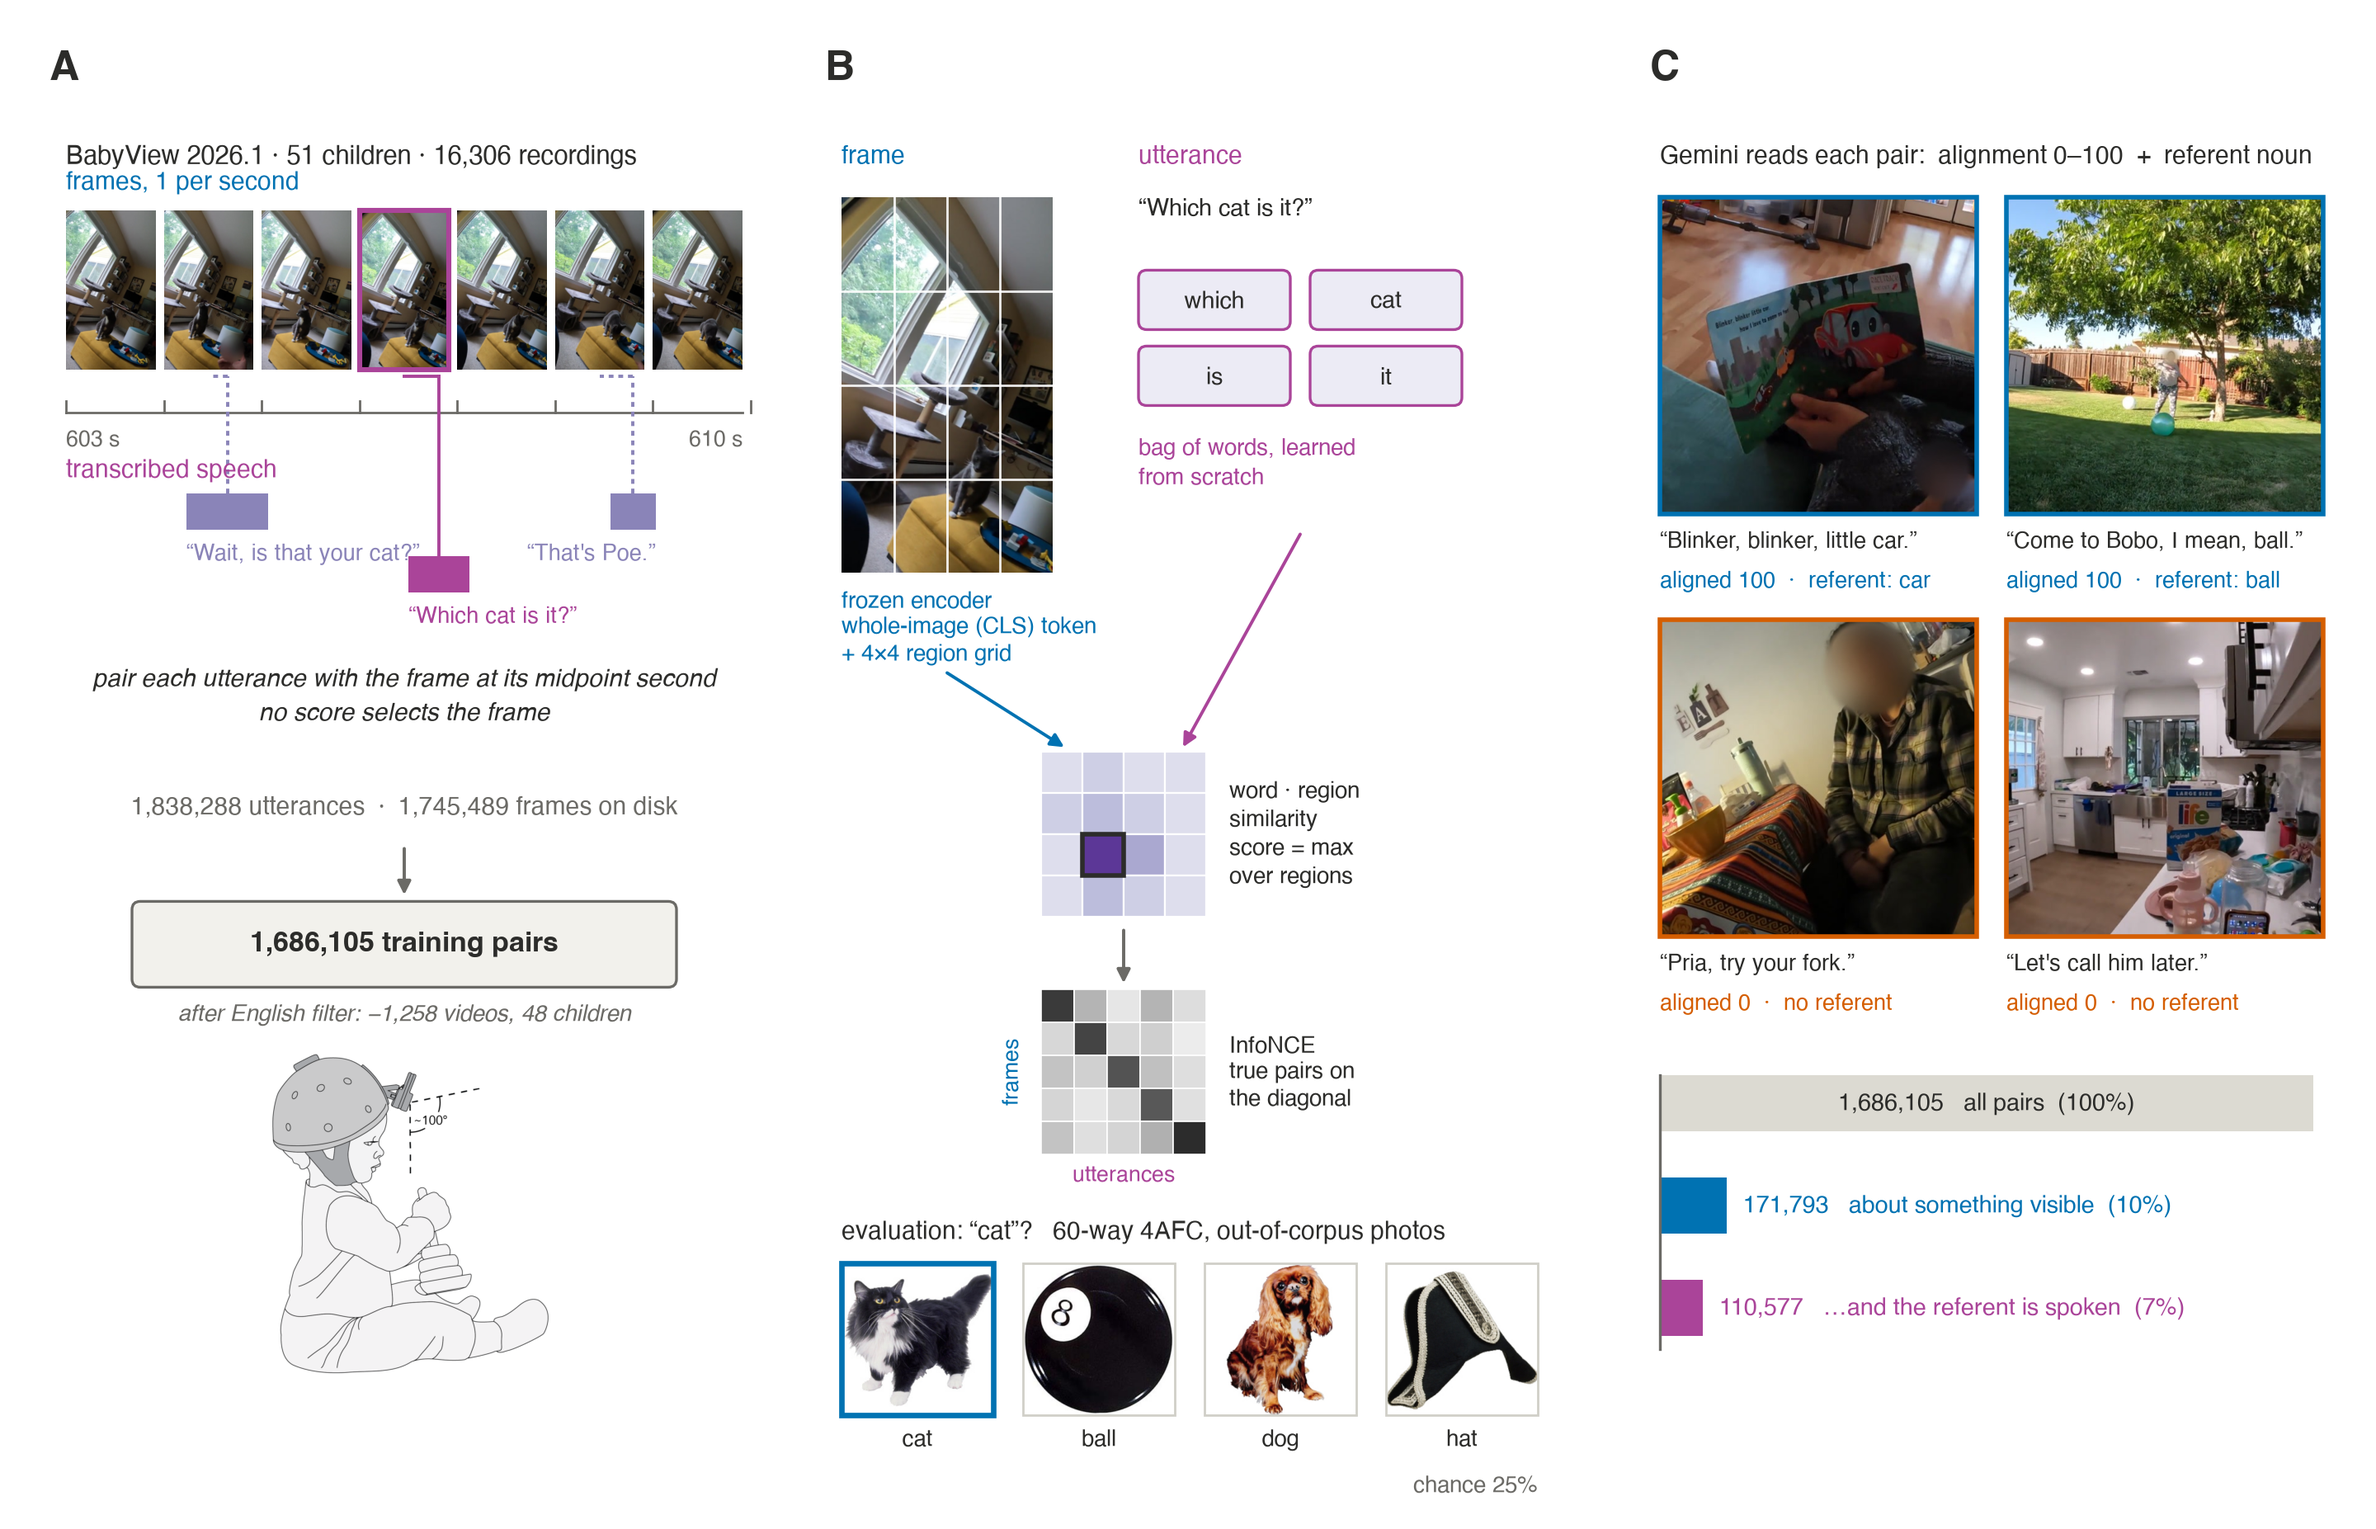
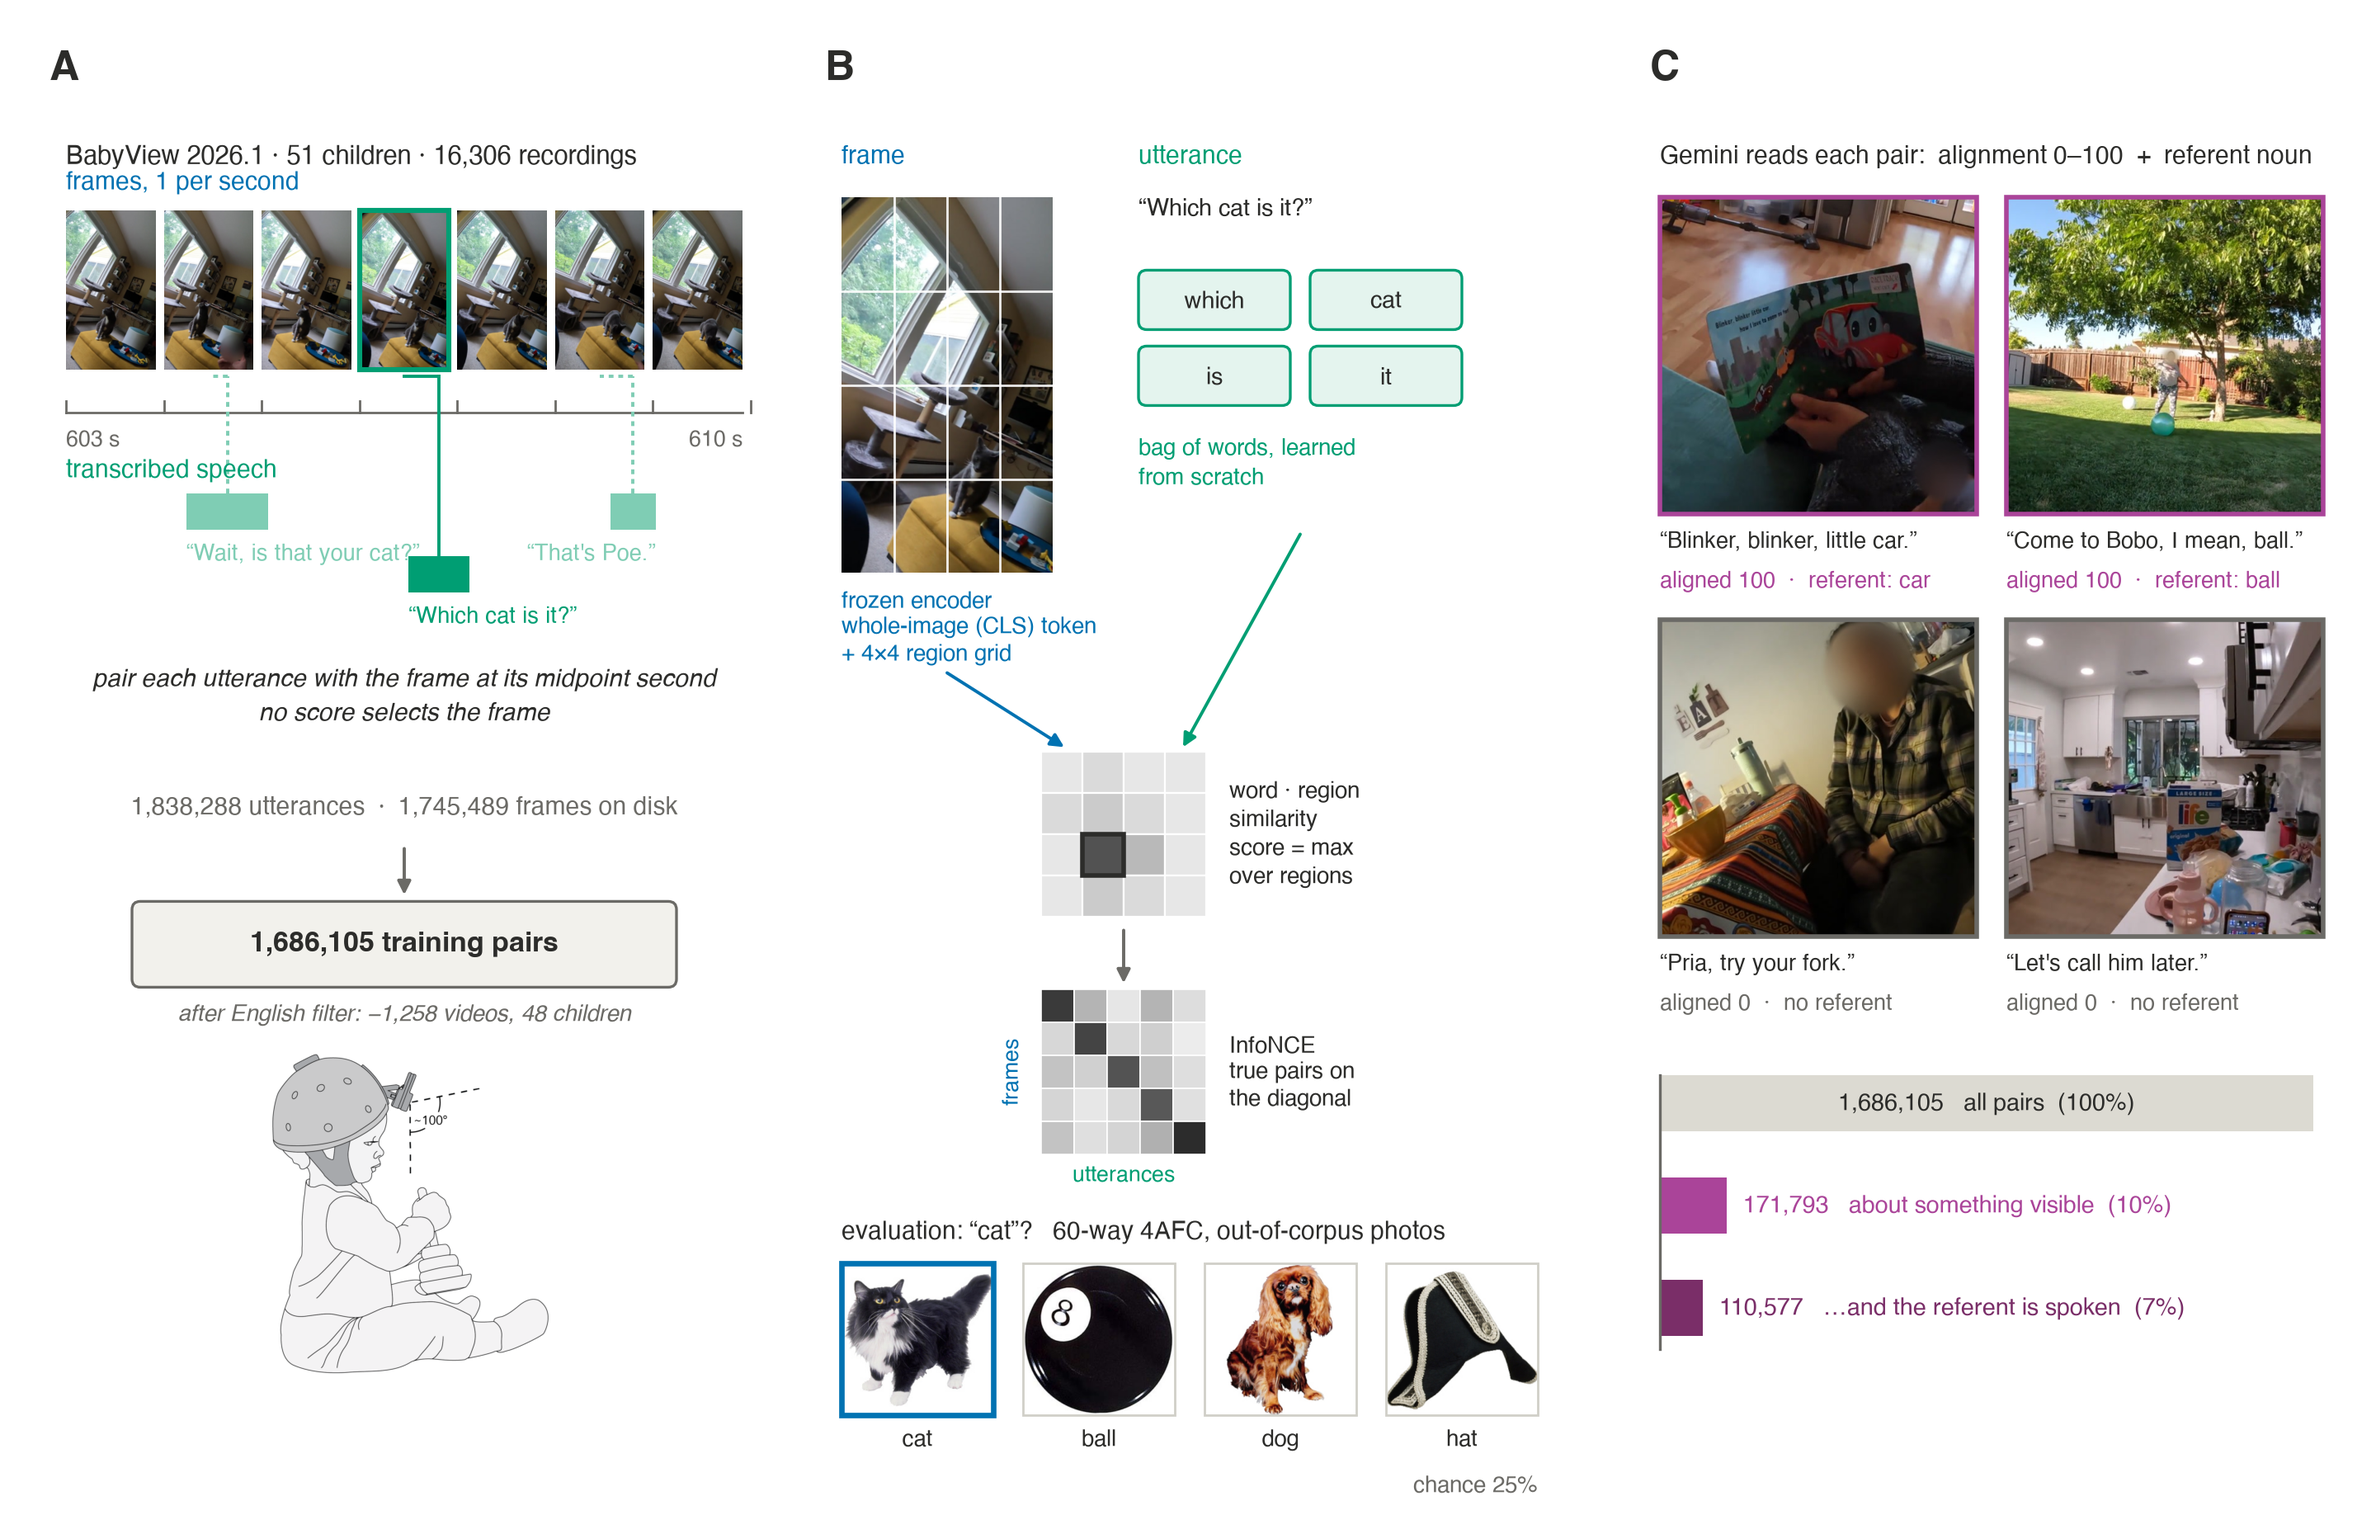
fig1: purple means referential alignment only; language stream gets its own hue
theme gains LANG (Okabe-Ito bluish green) and ORACLE2 (a darker purple for a nested
subset). In fig1 the speech stream, utterance tower, word chips and InfoNCE utterance
axis move from purple to LANG, so purple now marks alignment and nothing else:
Gemini-aligned cards are purple (unaligned grey, dropping orange from fig1 so it stays
the BabyView-encoder color), and the funnel nests ORACLE -> ORACLE2 for
aligned -> referent-spoken. This matches fig2B, where the aligned arm is purple. The
word-region similarity map goes neutral grey rather than Purples, since it is the
vision-language product and not an alignment quantity.

diff --git a/figures/fig1_pipeline.py b/figures/fig1_pipeline.py
@@ -116,11 +116,11 @@ ax.text(x0, ty - 0.5, f"{sec0} s", fontsize=4.8, color=T.SUB, va="top")
 ax.text(x0 + usable, ty - 0.5, f"{STRIP[-1] + 1} s", fontsize=4.8, color=T.SUB, va="top", ha="right")
 # utterances as bars at their real times; each pairs with the frame at its midpoint second
 uy = ty - 3.0
-ax.text(x0, uy + 0.9, "transcribed speech", fontsize=5.4, color=T.ORACLE, va="bottom")
+ax.text(x0, uy + 0.9, "transcribed speech", fontsize=5.4, color=T.LANG, va="bottom")
 for k, (t0, t1, text) in enumerate(UTTS):
     main = k == 1
     yy = uy - (k % 2) * 1.9
-    col = T.ORACLE if main else "#8a84b8"
+    col = T.LANG if main else "#7fcdb4"
     ax.add_patch(Rectangle((tx(t0), yy - 0.55), tx(t1) - tx(t0), 1.1, fc=col, ec="none", zorder=3))
     ax.text(tx(t0) if k < 2 else tx(t1), yy - 0.95, f"“{text}”", fontsize=4.9, color=col,
             va="top", ha="left" if k < 2 else "right", zorder=3)
@@ -130,7 +130,7 @@ for k, (t0, t1, text) in enumerate(UTTS):
     ax.plot([tx(mid), xs[sec]], [y_strip_bot - 0.2, y_strip_bot - 0.2], color=col, lw=0.7,
             ls="-" if main else (0, (1.5, 1.5)), zorder=2)
     if main:
-        ax.add_patch(Rectangle((xs[sec] - fw / 2, y_strip_bot), fw, fh, fc="none", ec=T.ORACLE,
+        ax.add_patch(Rectangle((xs[sec] - fw / 2, y_strip_bot), fw, fh, fc="none", ec=T.LANG,
                                lw=1.1, zorder=4))
 ax.text(x0 + usable / 2, uy - 4.6, "pair each utterance with the frame at its midpoint second\n"
         "no score selects the frame", fontsize=5.4, color=T.INK, ha="center", va="top",
@@ -170,15 +170,15 @@ for k, (vid, fi, text, score, ref, anchor) in enumerate(CARDS):
     yy = y - 1.8 - row * (ch + 3.2)
     aligned = score >= 50
     img(bx, load(FR(vid, fi), crop=(1, 1), anchor=anchor), x, yy, cw,
-        ec=T.FREE if aligned else T.INDOM, lw=1.0)
+        ec=T.ORACLE if aligned else T.SUB, lw=1.0)
     bx.text(x, yy - ch - 0.5, f"“{text}”", fontsize=4.9, color=T.INK, va="top")
     tag = f"aligned {score:.0f}  ·  referent: {ref}" if aligned else f"aligned {score:.0f}  ·  no referent"
-    bx.text(x, yy - ch - 1.7, tag, fontsize=4.9, color=T.FREE if aligned else T.INDOM, va="top")
+    bx.text(x, yy - ch - 1.7, tag, fontsize=4.9, color=T.ORACLE if aligned else T.SUB, va="top")
 # funnel: real bar chart, left-aligned, true linear scale
 tot = STEP["training-corpus"]["pairs"]
 levels = [("all pairs", tot, "#dcdad2", T.INK),
-          ("about something visible", STEP["aligned"]["pairs"], T.FREE, T.FREE),
-          ("…and the referent is spoken", STEP["referent-spoken"]["pairs"], T.ORACLE, T.ORACLE)]
+          ("about something visible", STEP["aligned"]["pairs"], T.ORACLE, T.ORACLE),
+          ("…and the referent is spoken", STEP["referent-spoken"]["pairs"], T.ORACLE2, T.ORACLE2)]
 fy = y - 2 * (ch + 3.2) - 2.8
 BX0, BW, BH = 0.8, 19.8, 1.7
 bx.plot([BX0, BX0], [fy - 3 * 3.1 + 1.0, fy], color=T.SUB, lw=0.6, zorder=3)   # the axis
@@ -210,13 +210,13 @@ cx.text(1.0, iy - fhC - 0.4, "frozen encoder\nwhole-image (CLS) token\n+ 4×4 re
 FX = 1.0 + fwC / 2                                  # frame tower centerline
 # right tower: the utterance as a bag of words
 ux = 10.0
-cx.text(ux, y - 0.2, "utterance", fontsize=5.4, color=T.ORACLE, va="top")
+cx.text(ux, y - 0.2, "utterance", fontsize=5.4, color=T.LANG, va="top")
 cx.text(ux, iy, "“Which cat is it?”", fontsize=5.2, color=T.INK, va="top")
 words = ["which", "cat", "is", "it"]
 wy = iy - 2.2
 for i, w in enumerate(words):
-    chip(cx, ux + (i % 2) * 5.2, wy - (i // 2) * 2.3, 4.6, 1.8, w, fc="#ecebf5", ec=T.ORACLE, fs=5.2)
-cx.text(ux, wy - 5.0, "bag of words, learned\nfrom scratch", fontsize=5.0, color=T.ORACLE,
+    chip(cx, ux + (i % 2) * 5.2, wy - (i // 2) * 2.3, 4.6, 1.8, w, fc="#e4f4ee", ec=T.LANG, fs=5.2)
+cx.text(ux, wy - 5.0, "bag of words, learned\nfrom scratch", fontsize=5.0, color=T.LANG,
         va="top", linespacing=1.3)
 WX = ux + 4.9                                       # word tower centerline
 # the Y: both routes converge on the word-region similarity map
@@ -227,13 +227,13 @@ sy = 21.2
 for i in range(4):
     for j in range(4):
         cx.add_patch(Rectangle((sx + j * cell, sy - (i + 1) * cell), cell, cell,
-                               fc=plt.cm.Purples(0.15 + 0.75 * sim[i, j]), ec="white", lw=0.4,
+                               fc=plt.cm.Greys(0.10 + 0.72 * sim[i, j]), ec="white", lw=0.4,
                                zorder=2))
 im_ = np.unravel_index(sim.argmax(), sim.shape)
 cx.add_patch(Rectangle((sx + im_[1] * cell, sy - (im_[0] + 1) * cell), cell, cell, fc="none",
                        ec=T.INK, lw=1.0, zorder=3))
 arrow(cx, FX, 23.6, sx + 0.7, sy + 0.15, color=T.FREE)
-arrow(cx, WX, wy - 8.0, sx + 4 * cell - 0.7, sy + 0.15, color=T.ORACLE)
+arrow(cx, WX, wy - 8.0, sx + 4 * cell - 0.7, sy + 0.15, color=T.LANG)
 cx.text(sx + 4 * cell + 0.7, sy - 2 * cell, "word · region\nsimilarity\nscore = max\nover regions",
         fontsize=5.0, color=T.INK, va="center", ha="left", linespacing=1.35)
 # InfoNCE: batch similarity matrix, diagonal = true pairs
@@ -249,7 +249,7 @@ for i in range(nb):
 arrow(cx, sx + 2 * cell, sy - 4 * cell - 0.4, sx + 2 * cell, ny + 0.2)
 cx.text(nx - 0.6, ny - nb * nc / 2, "frames", fontsize=4.8, color=T.FREE, ha="right",
         va="center", rotation=90)
-cx.text(nx + nb * nc / 2, ny - nb * nc - 0.3, "utterances", fontsize=4.8, color=T.ORACLE,
+cx.text(nx + nb * nc / 2, ny - nb * nc - 0.3, "utterances", fontsize=4.8, color=T.LANG,
         ha="center", va="top")
 cx.text(nx + nb * nc + 0.7, ny - nb * nc / 2, "InfoNCE\ntrue pairs on\nthe diagonal",
         fontsize=5.0, color=T.INK, va="center", linespacing=1.3)

diff --git a/figures/theme.py b/figures/theme.py
@@ -26,7 +26,9 @@ FREE    = OI["blue"]       # unaided / free learning; the workhorse (B-OTS) enco
 OTHER   = OI["sky"]        # the second off-the-shelf encoder (L-OTS)
 INDOM   = OI["vermillion"] # in-domain (BabyView-trained) encoders — the negative result
 INDOM2  = OI["orange"]     # the second BabyView-trained encoder
-ORACLE  = OI["purple"]     # oracle / supervised information the learner is handed
+ORACLE  = OI["purple"]     # oracle / referential-alignment information the learner is handed
+ORACLE2 = "#7A2E68"        # a nested subset of it (referent spoken subset of aligned)
+LANG    = "#009E73"        # the language stream in the schematic (Okabe-Ito bluish green)
 CHILD   = OI["sand"]       # human children / external reference (lighter than the oranges)
 LIT     = "#8a8a86"        # published reference points from the literature (Vong, CVCL)
 NEUTRAL = OI["grey"]       # a baseline / reference when it is not the point
